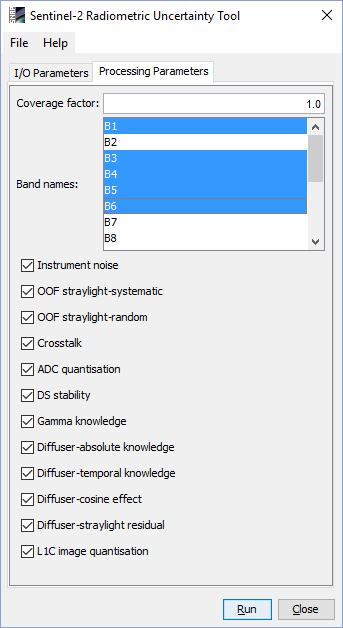
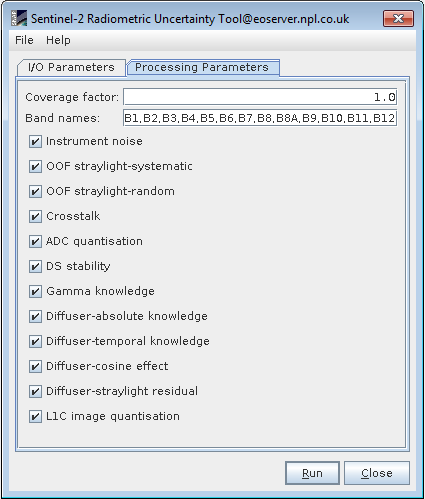
Changes to the HTML documentation

diff --git a/src/main/javahelp/org/esa/snap/snap/rut/docs/S2RutAlgoSpecification.html b/src/main/javahelp/org/esa/snap/snap/rut/docs/S2RutAlgoSpecification.html
@@ -38,25 +38,36 @@
 <p>This function defines the product reading, the setup of the uncertainty product output and the global parameters
     extraction. Specific tasks:</p>
 <ul style="list-style-type:square">
-    <li>The source product is read (<code>source_product</code>) and verified as a valid Sentinel-2 product.
+    <li>
+        The source product is read (<code>source_product</code>) and verified as a valid Sentinel-2 product.
     </li>
-    <li>Parsing Sentinel-2 metadata at three levels: <code>product_meta</code>, <code>datastrip_meta</code> and
-        <code>granule_meta</code>.
+    <li>
+        Parsing Sentinel-2 metadata at three levels: <code>product_meta</code>, <code>datastrip_meta</code> and
+        <code>granule_meta</code>. It also identifies the <code>spacecraft</code> for either S2A or S2B units.
     </li>
-    <li>Extraction of global metadata parameters: distance to sun (<code>u_sun</code>),reflectance quantification
-        (<code>quant</code>) and
-        mean sun zenith angle (<code>tecta</code>). Note: next versions of the tool to include the per-pixel sun zenith
-        angle.
+    <li>
+        Gets the selected bands (<code>toa_band_names</code>) and verifies that it is not empty
     </li>
-    <li>Extraction of user parameters: selected bands (<code>toa_band_names</code>), coverage factor (<code>k</code>)
-        and uncertainty contributors flags (<code>unc_select</code>).
+    <li>
+        Extraction of global metadata parameters: distance to sun (<code>u_sun</code>),reflectance quantification
+        (<code>quant</code>) and sun zenith angle (<code>source_sza</code>). The later contains the per-pixel sun zenith
+        angle for 10, 20 and 60m spatial resolutions.
     </li>
-    <li>Setup of the uncertainty product including L1C <code>scene_width</code>, <code>scene_height</code> and
+    <li>
+        Extraction of user parameters: coverage factor (<code>k</code>) and uncertainty contributors flags
+        (<code>unc_select</code>).
+    </li>
+    <li>
+        Setup of the uncertainty product including L1C <code>scene_width</code>, <code>scene_height</code> and
         geolocation: <code>rut_product = snappy.Product(self.source_product.getName() + '_rut', 'S2_RUT', scene_width,
-            scene_height)</code>
+        scene_height)</code>
     </li>
-    <li>Add each one of the selected bands (<code>unc_toa_band</code>) in the uncertainty product with the correct name
+    <li>
+        Add each one of the selected bands (<code>unc_toa_band</code>) in the uncertainty product with the correct name
         and Nodata value.
+    </li>
+    <li>
+        Different metadata fields ar populated and added to the uncertainty product.
     </li>
 </ul>
 
@@ -65,38 +76,45 @@
 <p>This function selects the specific band in a tile, extracts the required parameters and sets the uncertainty samples
     after calling the S2RutAlgo operator. Specific tasks:</p>
 <ul style="list-style-type:square">
-    <li>Selects the <code>source_band</code> and <code>toa_band_id</code>.
+    <li>
+        Selects the <code>source_band</code> and <code>toa_band_id</code>.
     </li>
-    <li>Extracts the metadata parameters for the specific band: absolute calibration coefficient (<code>a</code>), sun
+    <li>
+        Selects <code>source_sza</code>, <code>cloudmask</code> and <code>cirrusmask</code> according to the spatial
+        resolution of the band.
+    </li>
+    <li>
+        Extracts the metadata parameters for the specific band: absolute calibration coefficient (<code>a</code>), sun
         irradiance (<code>e_sun</code>), noise model coefficients (<code>alpha</code> and <code>beta</code>), and
         estimated diffuser degradation (<code>u_diff_temp</code>).
     </li>
-    <li>Extracts the L1C samples <code>toa_samples</code>
+    <li>
+        Extracts the L1C samples <code>toa_samples</code>
     </li>
-    <li>Call the S2RutAlgo for the per-pixel uncertainty calculation
+    <li>
+        Call the class <b>S2RutAlgo</b> for the per-pixel uncertainty calculation
         <code>unc = self.rut_algo.unc_calculation(np.array(toa_samples, dtype=np.uint16), toa_band_id)</code>
     </li>
-    <li>Set the samples in the destination <code>tile</code>
+    <li>
+        Obtains the rest of the S2 masks and combines those values with <code>unc</code>.
+    </li>
+    <li>
+        Set the samples in the destination <code>tile</code>
     </li>
 </ul>
 
 <h3>Description of class S2RutAlgo</h3>
 
-<h4>Step 1: Initial check</h4>
-<p>This step identifies No data, cloud, defective or saturated pixels.</p>
-<p>RUTv1 does not include this step. This is to be implemented in next versions of the RUT</p>
-
-<h4>Step 2: Undo reflectance conversion</h4>
+<h4>Step 1: Undo reflectance conversion</h4>
 <p>This step converts the L1C reflectance in L1B <i>CN</i> counts.</p>
 <code>cn = (self.a * self.e_sun * self.u_sun * math.cos(math.radians(self.tecta)) / (
     math.pi * self.quant)) * band_data.</code>
-<p>Warning raised if <code>tecta</code> &gt 70&deg. Conversion error can be &gt 5%</p>
 
-<h4>Step 3: Orthorectification process</h4>
+<h4>Step 2: Orthorectification process</h4>
 <p>This step evaluates the impact of the uncertainty propagation through the resampling process.</p>
 <p>RUTv1 does not include this step. This is to be implemented in next versions of the RUT</p>
 
-<h4>Step 4: L1B uncertainty contributors: raw and dark signal</h4>
+<h4>Step 3: L1B uncertainty contributors: raw and dark signal</h4>
 <p><b>NOTE: Each the following uncertainty contributors are pre-checked and included if <code>unc_select</code> == True</b>
 </p>
 
@@ -121,11 +139,11 @@
     </li>
 </ul>
 
-<h4>Step 5: L1B uncertainty contributors: gamma correction</h4>
+<h4>Step 4: L1B uncertainty contributors: gamma correction</h4>
 <p>Predefined relative gains residual in % units</p>
 <code>u_gamma = 0.4</code>
 
-<h4>Step 6: L1C uncertainty contributors: absolute calibration coefficient</h4>
+<h4>Step 5: L1C uncertainty contributors: absolute calibration coefficient</h4>
 <ul style="list-style-type:square">
     <li><p>Pre-flight diffuser reflectance knowledge in % units</p>
         <code>u_diff_abs = rad_conf.u_diff_absarray[band_id]</code>
@@ -140,11 +158,11 @@
     </li>
 </ul>
 
-<h4>Step 7: L1C uncertainty contributors: reflectance conversion</h4>
+<h4>Step 6: L1C uncertainty contributors: reflectance conversion</h4>
 <p>Impact of the reflectance factor digitisation in % units</p>
 <code>u_ref_quant = 100 * (0.5 / math.sqrt(3)) / band_data</code>
 
-<h4>Step 8: Combine uncertainty contributors</h4>
+<h4>Step 7: Combine uncertainty contributors</h4>
 <ul style="list-style-type:square">
     <li><p>Calculation of the terms u'<sub>DS</sub> and u'<sub>ADC</sub></p>
         <code>u_adc = (100 * self.u_ADC / math.sqrt(3)) / cn </code>; <code>u_ds = (100 * u_DS) / cn</code>
@@ -167,10 +185,6 @@
         <code>u_ref = np.uint8(np.clip(u_expand, 0, 250))</code>
     </li>
 </ul>
-
-<h4>Step 9: Append uncertainty information to the metadata</h4>
-<p>This step integrates relevant information (e.g. mean pixel uncertainty) in the uncertainty product metadata.</p>
-<p>RUTv1 does not include this step. This is to be implemented in next versions of the RUT</p>
 
 <br>
 <hr>

diff --git a/src/main/javahelp/org/esa/snap/snap/rut/docs/S2RutProcessorDescription.html b/src/main/javahelp/org/esa/snap/snap/rut/docs/S2RutProcessorDescription.html
@@ -37,9 +37,13 @@
     <b>Optical->Preprocessing->Sentinel-2 Radiometric Uncertainty Tool</b>.
     On the command line processor is available by means of the Graph Processing Tool <code>gpt</code>
     which is located in the Sentinel Toolbox <code>bin</code> directory.
-    Typing <code>gpt S2Rut -h</code> displays further information.
+    Typing <code>gpt S2Rut -h</code> displays further information. For example, the code below processes the uncertainty
+    for bands B1, B2 and B3 with the specific input product and output product:
 </p>
-
+<p><code>gpt S2RutOp -Ssource="/PATH_TO_PRODUCT/S2A_MSIL1C_20180220T105051_N0206_R051_T30SYJ_20180221T134037.SAFE" -t
+    "PATH_TO_FOLDER_WITH_S2_PRODUCTS/S2A_MSIL1C_20180220T105051_N0206_R051_T30SYJ_20180221T134037_rut.dim"
+    -Pband_names="B1,B2,B3"</code>
+</p>
 <p>
     Selecting the <b>Sentinel-2 Radiometric Uncertainty Tool</b> command from the Sentinel Toolbox menu opens up the
     following dialog:
@@ -86,10 +90,12 @@
     evaluation (<i>k</i>=1 means 68.27% probability):
 </p>
 <p class="i1">
-    <b>Band names:</b> Select the bands for which the uncertainty shall be computed.
+    <b>Band names:</b> Write down the bands for which the uncertainty shall be computed. All valid bands are written by
+    default. NOTE: No space between commas is required (see image above)
 </p>
 <p class="i1">
-    <b>Instrument noise:</b> Noise (shot, thermal, etc.) introduced by the silicon and CMT detectors of the MSI instrument
+    <b>Instrument noise:</b> Noise (shot, thermal, etc.) introduced by the silicon and CMT detectors of the MSI
+    instrument
 </p>
 <p class="i1">
     <b>OOF straylight-systematic:</b> Telescope Out-Of-Field light that results in a positive bias
@@ -119,7 +125,8 @@
     <b>Diffuser-cosine effect:</b> Cosine correction knowledge as a consequence of angular noise TBD
 </p>
 <p class="i1">
-    <b>Diffuser-straylight_residual:</b> Residual for the correction of the stray-light during in-flight diffuser calibration
+    <b>Diffuser-straylight_residual:</b> Residual for the correction of the stray-light during in-flight diffuser
+    calibration
 </p>
 <p class="i1">
     <b>L1C image quantisation:</b> Effect of the finite resolution of the L1C reflectance factor

diff --git a/src/main/python/s2_rut_algo.py b/src/main/python/s2_rut_algo.py
@@ -53,16 +53,7 @@ class S2RutAlgo:
         """
 
         #######################################################################
-        # 1.	Initial check
-        #######################################################################
-        # a.	Cloud pixel
-        # b.	pixel_value == 0, [product metadata] General_Info/Product_Image_Characteristics/
-        # Special_Values/SPECIAL_VALUE_TEXT [NODATA]
-        # c.	pixel_value == 1,  [product metadata] General_Info/Product_Image_Characteristics/Special_Values/
-        # SPECIAL_VALUE_TEXT [SATURATED]
-
-        #######################################################################
-        # 2.	Undo reflectance conversion
+        # 1.	Undo reflectance conversion
         #######################################################################
         # a.	No action required
         # b.	[product metadata] #issue: missing one band
@@ -76,13 +67,13 @@ class S2RutAlgo:
         cn = (self.a * self.e_sun * self.u_sun * np.cos(np.radians(self.tecta)) / math.pi) * band_data
 
         #######################################################################
-        # 3.	Orthorectification process
+        # 2.	Orthorectification process
         #######################################################################
 
         # TBD. Here both terms will be used with no distinction.
 
         #######################################################################
-        # 4.	L1B uncertainty contributors: raw and dark signal
+        # 3.	L1B uncertainty contributors: raw and dark signal
         #######################################################################
 
         if self.unc_select[0]:
@@ -115,7 +106,7 @@ class S2RutAlgo:
             u_DS = 0
 
         #######################################################################
-        # 5.	L1B uncertainty contributors: gamma correction
+        # 4.	L1B uncertainty contributors: gamma correction
         #######################################################################
 
         if self.unc_select[6]:
@@ -124,7 +115,7 @@ class S2RutAlgo:
             self.u_gamma = 0
 
         #######################################################################
-        # 6.	L1C uncertainty contributors: absolute calibration coefficient
+        # 5.	L1C uncertainty contributors: absolute calibration coefficient
         #######################################################################
 
         if self.unc_select[7]:
@@ -142,7 +133,7 @@ class S2RutAlgo:
             self.u_diff_k = 0  # predefined but updated to 0 if deselected by user
 
         #######################################################################
-        # 7.	L1C uncertainty contributors: reflectance conversion
+        # 6.	L1C uncertainty contributors: reflectance conversion
         #######################################################################
 
         if self.unc_select[11]:
@@ -151,7 +142,7 @@ class S2RutAlgo:
             u_ref_quant = 0
 
         #######################################################################        
-        # 8.	Combine uncertainty contributors
+        # 7.	Combine uncertainty contributors
         #######################################################################        
         # NOTE: no gamma propagation for RUTv1!!!
         # values given as percentages. Multiplied by 10 and saved to 1 byte(uint8)
